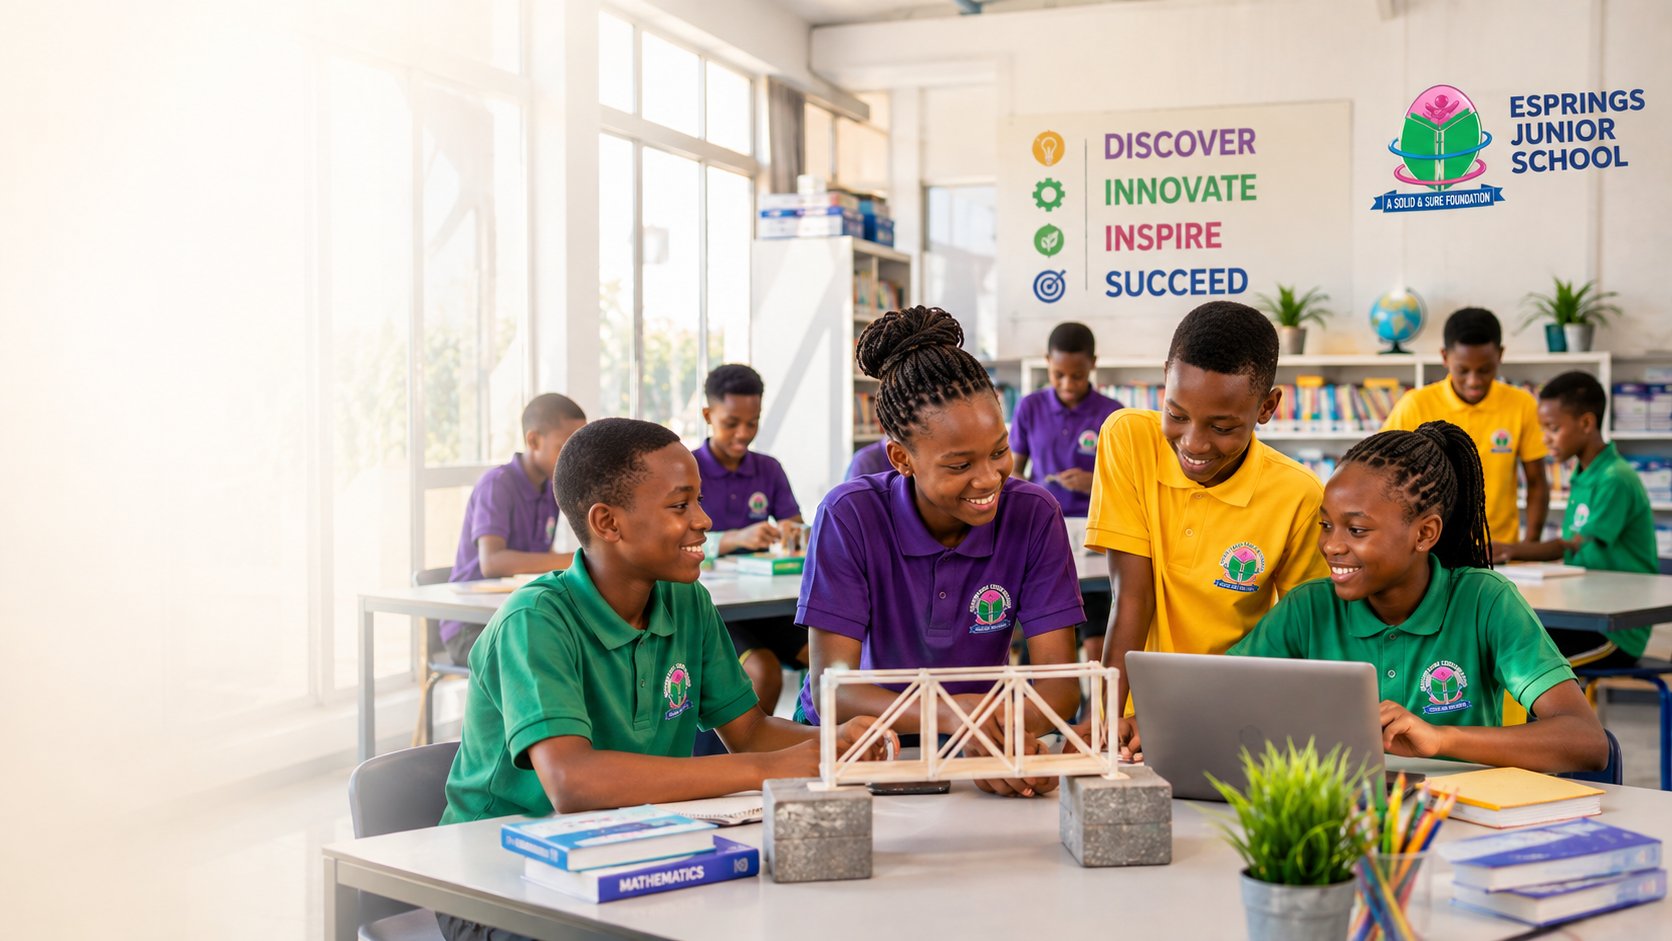
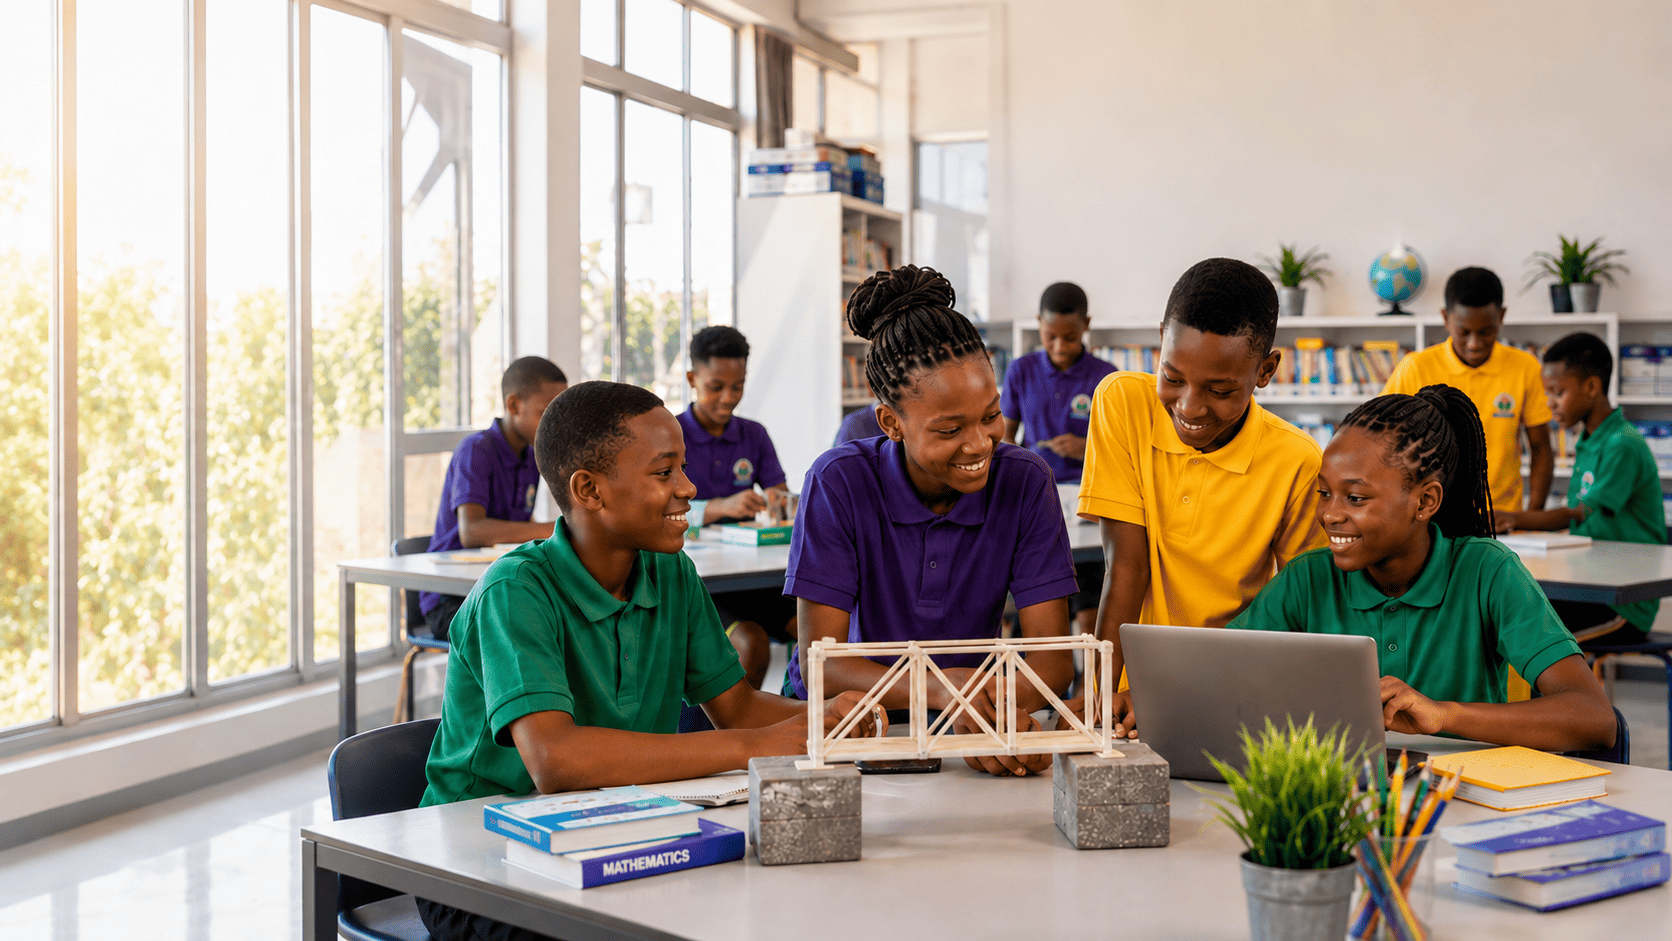
Update Admissions page with improved process flow

diff --git a/app/admissions/page.tsx b/app/admissions/page.tsx
@@ -4,60 +4,43 @@ import Link from 'next/link'
 import { Button } from '@/components/ui/Button'
 import { 
   FileText, Calendar, Users, CheckCircle, 
-  Download, ArrowRight, BookOpen, Heart, ListChecks
+  Download, ArrowRight, ClipboardList, PenTool, Handshake, Sparkles
 } from 'lucide-react'
 
 // Add configuration at the top
 const ADMISSIONS_CONFIG = {
-  intakePeriod: 'Term 1 2027',
-  deadline: '15 January 2027',
-  startingFees: 'KSh 12,000',
-  // Add document URLs as constants
+  intakePeriod: '2026/2027',
   documents: {
-    feeStructure: '/documents/fee-structure.pdf',
-    medicalForm: '/documents/medical-form.pdf',
-    applicationForm: '/documents/application-form.pdf',
-    requirements: '/documents/admission-requirements.pdf'
+    applicationForm: '/documents/application-form.pdf'
   }
 }
 
 export default function AdmissionsPage() {
   const steps = [
-    { step: 1, icon: FileText, title: 'Review Requirements', desc: 'Check all admission requirements and download the checklist' },
-    { step: 2, icon: Download, title: 'Download Forms', desc: 'Download and complete the required forms' },
-    { step: 3, icon: Users, title: 'Visit Us', desc: 'Visit and submit completed forms and required documents' },
-    { step: 4, icon: CheckCircle, title: 'Enrollment Confirmation', desc: 'Receive confirmation and secure your child\'s spot' }
-  ]
-
-  const downloadableDocs = [
     { 
-      name: 'Fee Structure', 
-      description: 'Complete fee breakdown for all levels',
-      icon: FileText,
-      url: ADMISSIONS_CONFIG.documents.feeStructure,
-      color: 'from-blue-500 to-blue-600'
+      step: 1, 
+      icon: ClipboardList, 
+      title: 'Inquiry & Information', 
+      desc: 'Contact us to learn about our programs, fees, and availability. We\'ll provide you with all the information you need to make an informed decision.' 
     },
     { 
-      name: 'Medical Form', 
-      description: 'Required medical information form',
-      icon: Heart,
-      url: ADMISSIONS_CONFIG.documents.medicalForm,
-      color: 'from-red-500 to-red-600'
+      step: 2, 
+      icon: PenTool, 
+      title: 'Application Submission', 
+      desc: 'Complete and submit the application form along with the required documents. Our admissions team will review your application.' 
     },
     { 
-      name: 'Application Form', 
-      description: 'School enrollment application form',
-      icon: BookOpen,
-      url: ADMISSIONS_CONFIG.documents.applicationForm,
-      color: 'from-purple-500 to-purple-600'
+      step: 3, 
+      icon: Users, 
+      title: 'Assessment & Interview', 
+      desc: 'Schedule a school visit and assessment for your child. This helps us understand your child\'s needs and ensures a good fit.' 
     },
     { 
-      name: 'Admission Requirements', 
-      description: 'Complete checklist of requirements',
-      icon: ListChecks,
-      url: ADMISSIONS_CONFIG.documents.requirements,
-      color: 'from-green-500 to-green-600'
-    },
+      step: 4, 
+      icon: Handshake, 
+      title: 'Enrollment & Welcome', 
+      desc: 'Upon acceptance, complete the enrollment process and receive a warm welcome to the E-Springs Schools community.' 
+    }
   ]
 
   return (
@@ -68,7 +51,7 @@ export default function AdmissionsPage() {
           <h1 className="text-4xl md:text-5xl font-heading font-bold mb-4">Admissions</h1>
           <div className="w-20 h-1 bg-white/50 mx-auto rounded-full mb-6"></div>
           <p className="text-xl max-w-3xl mx-auto text-white/90">
-            Give your child the best start in life.
+            Begin your child's journey with us today
           </p>
         </div>
       </section>
@@ -77,18 +60,19 @@ export default function AdmissionsPage() {
       <section className="py-12 bg-white">
         <div className="container mx-auto px-4 text-center max-w-4xl">
           <p className="text-lg text-gray-700 leading-relaxed">
-            Choosing the right school for a child is one of the most important decisions any parent or guardian will make. 
-            At E-Springs, we welcome children from diverse backgrounds and are committed to helping every learner thrive.
+            At E-Springs Schools, we believe every child deserves a strong educational foundation. 
+            Our admissions process is designed to be simple, transparent, and welcoming for families 
+            joining our community.
           </p>
         </div>
       </section>
 
-      {/* Intake / Deadline Banner - REINSTATED */}
+      {/* Intake Banner */}
       <section className="py-8 bg-primary/5 border-y border-primary/10">
         <div className="container mx-auto px-4 text-center">
           <p className="text-primary font-semibold flex items-center justify-center gap-2 flex-wrap">
             <Calendar size={20} aria-hidden="true" />
-            <span>{ADMISSIONS_CONFIG.intakePeriod} intake now open — closes {ADMISSIONS_CONFIG.deadline}</span>
+            <span>{ADMISSIONS_CONFIG.intakePeriod} intake now open — Limited places available</span>
           </p>
         </div>
       </section>
@@ -97,105 +81,82 @@ export default function AdmissionsPage() {
       <section className="py-16 bg-gray-50" id="admissions-process">
         <div className="container mx-auto px-4">
           <h2 className="text-3xl font-heading font-bold text-primary text-center mb-4">
-            Admission Process
+            How to Enroll Your Child
           </h2>
+          <p className="text-gray-600 text-center max-w-2xl mx-auto mb-8">
+            Follow these simple steps to secure your child's place at E-Springs Schools
+          </p>
           <div className="w-20 h-1 bg-secondary mx-auto rounded-full mb-12"></div>
           
-          <div className="grid md:grid-cols-4 gap-8 mb-16">
+          <div className="grid md:grid-cols-2 lg:grid-cols-4 gap-6 mb-16">
             {steps.map((item, idx) => (
-              <div key={idx} className="text-center relative">
+              <div key={idx} className="relative">
+                {/* Connector line */}
                 {idx < 3 && (
-                  <div className="hidden md:block absolute top-1/4 left-full w-full h-0.5 bg-secondary/30 -translate-x-1/2" aria-hidden="true" />
+                  <div className="hidden lg:block absolute top-20 left-full w-full h-0.5 bg-secondary/30 -translate-x-1/2" aria-hidden="true" />
                 )}
-                <div className="bg-secondary text-white w-16 h-16 rounded-full flex items-center justify-center mx-auto mb-4 relative z-10">
-                  <item.icon size={32} aria-hidden="true" />
+                
+                <div className="bg-white rounded-2xl p-6 text-center shadow-lg hover:shadow-xl transition-all duration-300 hover:-translate-y-2 h-full border border-gray-100">
+                  {/* Step Number */}
+                  <div className="flex items-center justify-center mb-4">
+                    <div className="relative">
+                      <div className="bg-secondary text-white w-16 h-16 rounded-full flex items-center justify-center relative z-10">
+                        <item.icon size={28} aria-hidden="true" />
+                      </div>
+                      <div className="absolute -top-2 -right-2 bg-primary text-white w-7 h-7 rounded-full flex items-center justify-center text-sm font-bold">
+                        {item.step}
+                      </div>
+                    </div>
+                  </div>
+                  
+                  <h3 className="font-heading font-semibold text-lg text-primary mb-2">
+                    {item.title}
+                  </h3>
+                  <p className="text-gray-600 text-sm leading-relaxed">
+                    {item.desc}
+                  </p>
                 </div>
-                <div className="text-2xl font-bold text-primary mb-2">Step {item.step}</div>
-                <h3 className="font-heading font-semibold text-lg mb-2">{item.title}</h3>
-                <p className="text-gray-600 text-sm">{item.desc}</p>
               </div>
             ))}
           </div>
 
-          {/* Downloadable Documents */}
-          <div className="max-w-5xl mx-auto">
-            <h3 className="text-2xl font-heading font-bold text-primary text-center mb-8">
-              Download Admission Documents
-            </h3>
-            <p className="text-gray-600 text-center mb-2 max-w-2xl mx-auto">
-              Download all the documents you need to complete the admission process.
-              Please fill them out and submit along with the required documents.
-            </p>
-            
-            {/* Fee teaser - REINSTATED */}
-            <p className="text-gray-500 text-center text-sm mb-10">
-              Fees start from {ADMISSIONS_CONFIG.startingFees}/term — see full breakdown below
-            </p>
-            
-            <div className="grid sm:grid-cols-2 gap-6">
-              {downloadableDocs.map((doc, idx) => (
-                <div 
-                  key={idx} 
-                  className="bg-white rounded-2xl p-6 border border-gray-200 hover:shadow-xl transition-all duration-300 hover:-translate-y-1 group"
-                >
-                  <div className={`bg-gradient-to-r ${doc.color} w-14 h-14 rounded-xl flex items-center justify-center mb-4 group-hover:scale-110 transition`}>
-                    <doc.icon className="text-white w-7 h-7" />
-                  </div>
-                  <h4 className="text-xl font-heading font-bold text-primary mb-2">
-                    {doc.name}
-                  </h4>
-                  <p className="text-gray-600 text-sm mb-4">
-                    {doc.description}
-                  </p>
-                  
-                  {/* FIXED: Using anchor tag instead of button */}
-                  <a
-                    href={doc.url}
-                    download
-                    target="_blank"
-                    rel="noopener noreferrer"
-                    className="w-full bg-primary hover:bg-primary/80 text-white px-4 py-2.5 rounded-xl font-semibold transition flex items-center justify-center gap-2 group"
-                  >
-                    <Download size={18} />
-                    Download {doc.name}
-                  </a>
-                </div>
-              ))}
-            </div>
-
-            {/* Contact Admissions Team - UNCOMMENTED */}
-            <div className="mt-10 p-6 bg-gradient-to-r from-secondary/20 to-primary/10 rounded-2xl text-center">
-              <p className="text-gray-700 mb-4 font-medium">
-                Have more questions about admissions?
-              </p>
-              <Link href="/contact">
-                <Button variant="primary">
-                  Contact Admissions Team <ArrowRight size={18} className="ml-2" />
-                </Button>
-              </Link>
-            </div>
-          </div>
+          
 
           {/* Call to Action */}
-          <div className="mt-12 bg-secondary rounded-2xl p-8 text-center text-white">
-            <h3 className="text-2xl font-heading font-bold mb-3">
-              Ready to Begin Your Child's Journey?
-            </h3>
-            <p className="text-white/90 max-w-2xl mx-auto mb-6">
-              Download the application form, complete it, and submit it with the required documents to secure your child's spot.
-            </p>
+          <div className="relative bg-gradient-to-r from-secondary to-secondary-dark rounded-2xl p-8 md:p-12 text-center text-white overflow-hidden">
+            {/* Background decoration */}
+            <div className="absolute inset-0 opacity-10">
+              <div className="absolute top-0 right-0 w-64 h-64 bg-white rounded-full blur-3xl" />
+              <div className="absolute bottom-0 left-0 w-64 h-64 bg-primary rounded-full blur-3xl" />
+            </div>
             
-            {/* FIXED: Using anchor tag */}
-            <a
-              href={ADMISSIONS_CONFIG.documents.applicationForm}
-              download
-              target="_blank"
-              rel="noopener noreferrer"
-              className="bg-white text-primary hover:bg-white/90 px-8 py-3 rounded-xl font-semibold transition flex items-center justify-center gap-3 mx-auto shadow-lg hover:shadow-xl w-fit"
-            >
-              <Download size={20} />
-              Download Application Form
-            </a>
+            <div className="relative z-10">
+              <Sparkles className="w-12 h-12 mx-auto mb-4 text-white/80" />
+              <h3 className="text-2xl md:text-3xl font-heading font-bold mb-3">
+                Ready to Begin Your Child's Journey?
+              </h3>
+              <p className="text-white/90 max-w-2xl mx-auto mb-6">
+                Take the first step today. Contact our admissions team to schedule a tour 
+                and learn more about how we can support your child's educational journey.
+              </p>
+              <div className="flex flex-col sm:flex-row gap-4 justify-center">
+                <Link href="/contact">
+                  <Button 
+                    variant="primary" 
+                    size="lg" 
+                    className="bg-white text-primary hover:bg-white/90 shadow-lg hover:shadow-xl transition-all duration-300 hover:scale-105"
+                  >
+                    Contact Admissions <ArrowRight size={18} className="ml-2" />
+                  </Button>
+                </Link>
+                <a 
+                  href="tel:+254720979743"
+                  className="inline-flex items-center justify-center px-8 py-3 rounded-xl font-semibold border-2 border-white text-white hover:bg-white/20 transition-all duration-300"
+                >
+                  Call Us Now
+                </a>
+              </div>
+            </div>
           </div>
         </div>
       </section>
